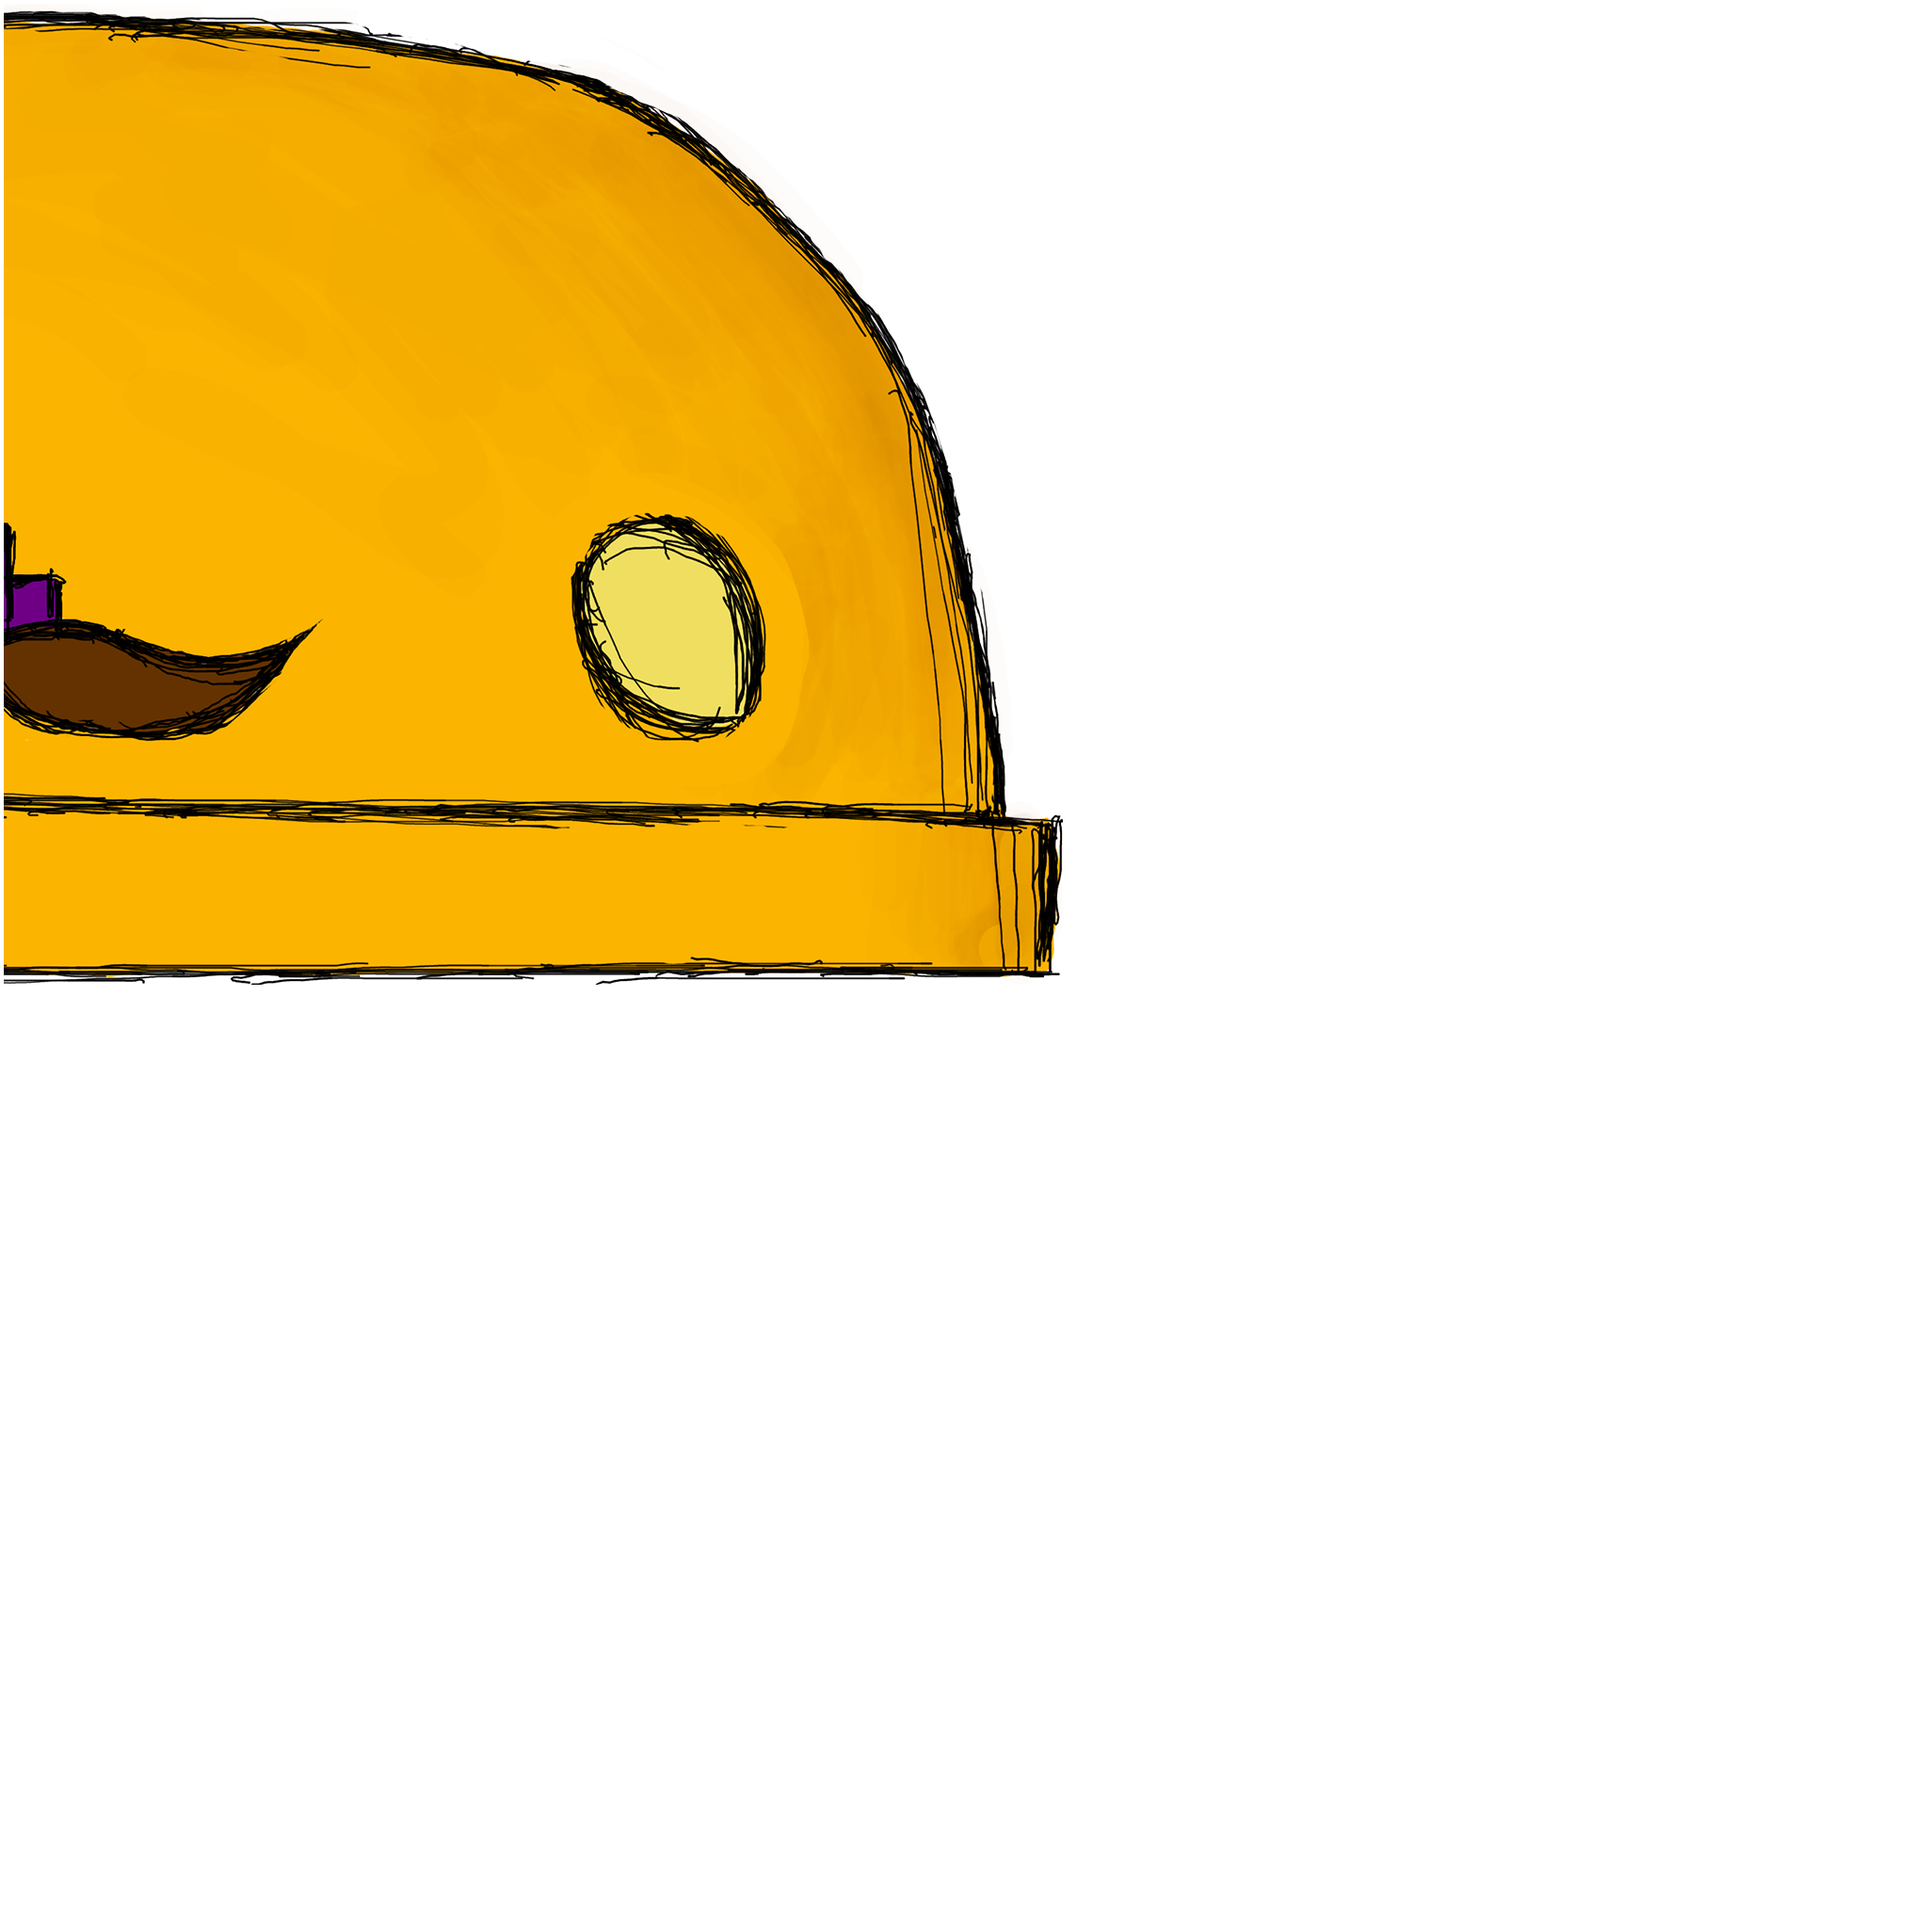
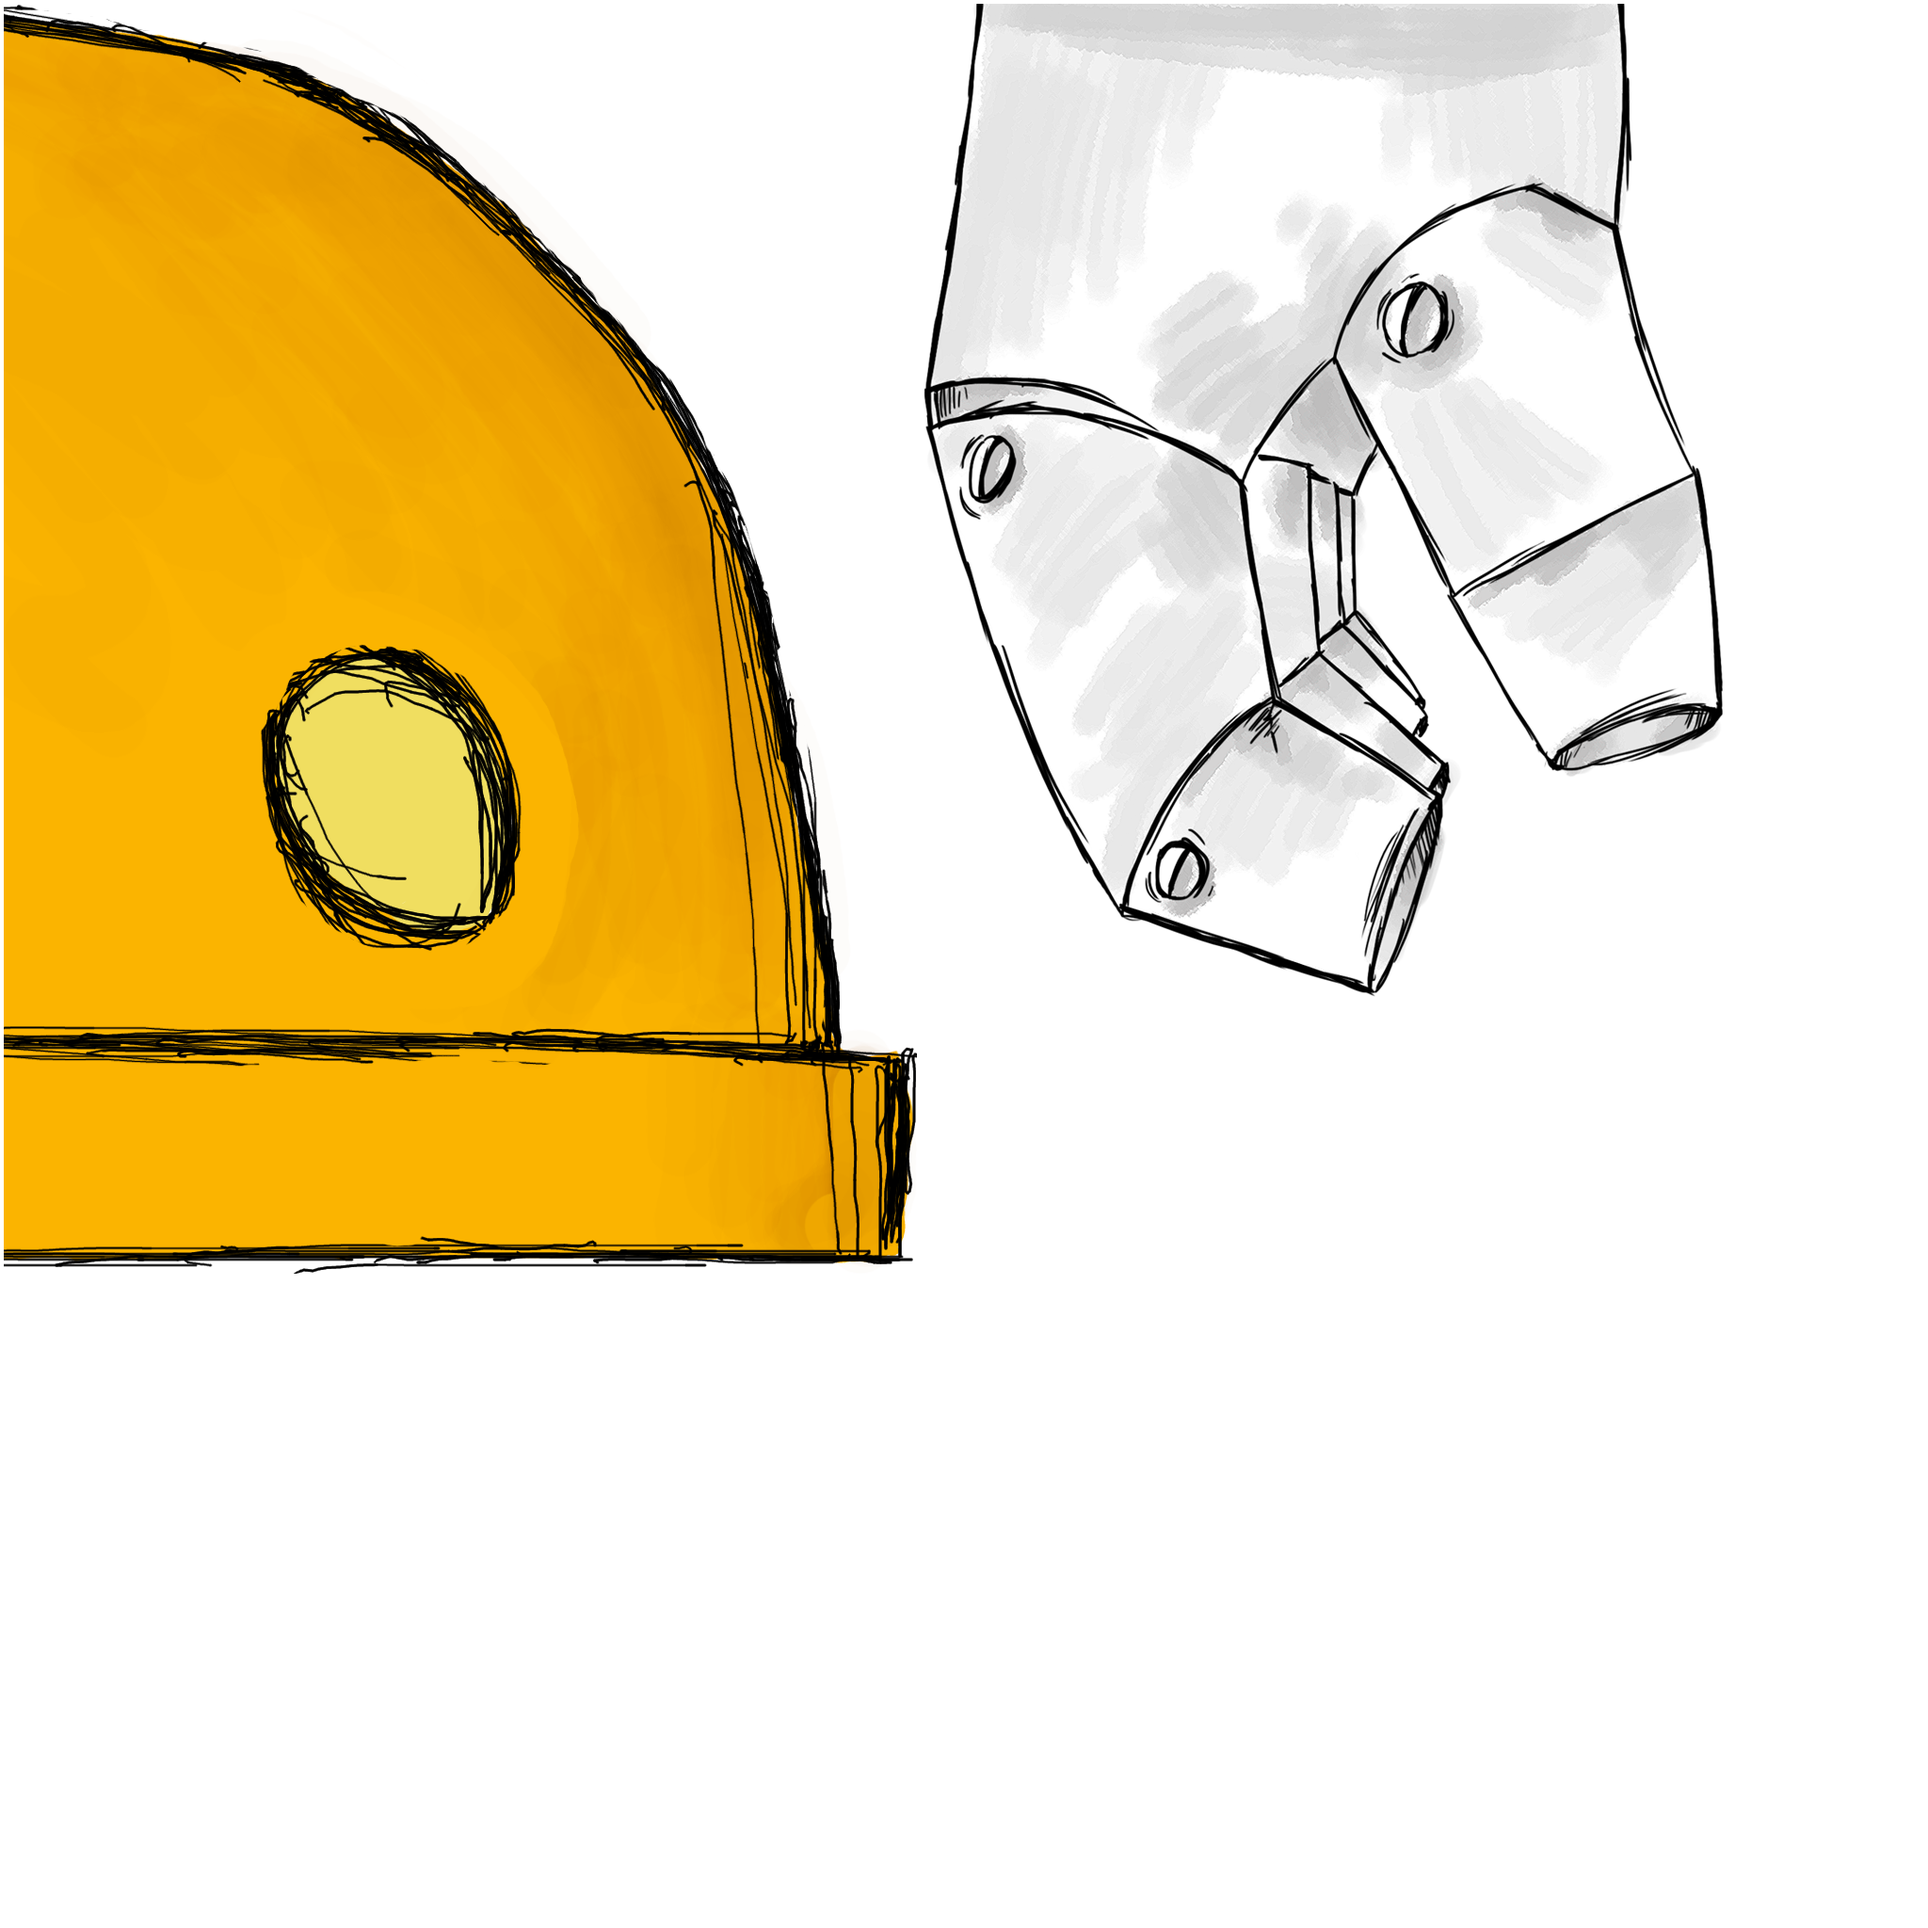
in process of adding hands!!! head is messed up  because of it

Changed region(s): [[0.0, 0.0, 0.9062, 0.6562], [0.8438, 0.1562, 0.875, 0.2188]]

diff --git a/werescrewed/src/com/blindtigergames/werescrewed/screens/AlphaScreen.java b/werescrewed/src/com/blindtigergames/werescrewed/screens/AlphaScreen.java
@@ -1254,6 +1254,13 @@ public class AlphaScreen extends Screen {
 		// 714,1437
 
 		leftShoulderSkeleton.bgSprite = null;
+		
+		//All in one line cus I'm high level like that:
+		leftShoulderSkeleton.addBGDecalBack( Sprite.scale( 
+				WereScrewedGame.manager.getAtlas( "head_right" )
+				.createSprite( "hand" ) 
+				,1), 
+				pos.cpy( ).add( 0,-1100 ) );
 
 		addFGSkeleton( leftShoulderSkeleton );
 		addBGSkeleton( leftShoulderSkeleton );
